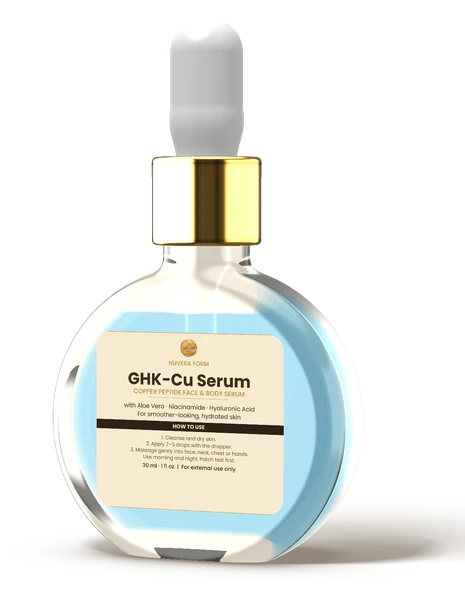
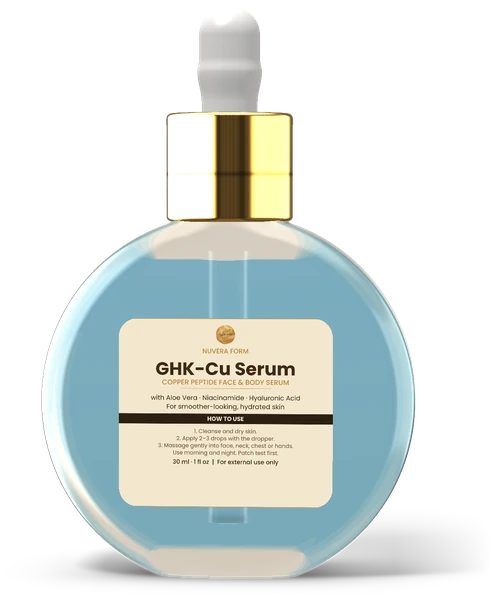
Serum image: match the round dropper bottle reference (flat base, collar on body)
Claude-Session: https://claude.ai/code/session_0187QizhTywBw29XkkMuAALE

diff --git a/index.html b/index.html
@@ -121,7 +121,7 @@ body{font-family:'Poppins',sans-serif;background:var(--champ);color:var(--brown)
 <div class="grid sm:grid-cols-2 lg:grid-cols-4 gap-5 items-start">
 <article class="card p-5 flex flex-col ring-2 ring-[#BF943C]">
 <div class="flex justify-between items-start mb-3"><span class="badge">In stock</span><span class="badge" style="background:var(--gold);color:#fff;border-color:var(--gold)">Available now</span></div>
-<div class="flex items-center justify-center mb-3 rounded-2xl" style="height:14rem;padding:.5rem 0;background:linear-gradient(160deg,var(--sand),var(--champ))"><img src="/assets/products/ghk-cu-serum-30ml.webp" alt="GHK-Cu Serum, 30 ml dropper bottle" width="287" height="370" loading="lazy" decoding="async" style="height:100%;width:auto;object-fit:contain;padding:.35rem 0;border-radius:.75rem"></div>
+<div class="flex items-center justify-center mb-3 rounded-2xl" style="height:14rem;padding:.5rem 0;background:linear-gradient(160deg,var(--sand),var(--champ))"><img src="/assets/products/ghk-cu-serum-30ml.webp" alt="GHK-Cu Serum, 30 ml dropper bottle" width="306" height="370" loading="lazy" decoding="async" style="height:100%;width:auto;object-fit:contain;padding:.35rem 0;border-radius:.75rem"></div>
 <h3 class="font-bold leading-snug">GHK-Cu Serum</h3>
 <p class="text-xs mt-1">30 ml · 1 fl oz · For face, neck, chest and hands</p>
 <p class="text-sm mt-2">A lightweight serum with copper peptide (GHK-Cu), aloe vera, niacinamide and hyaluronic acid for smoother-looking, hydrated skin.</p>
